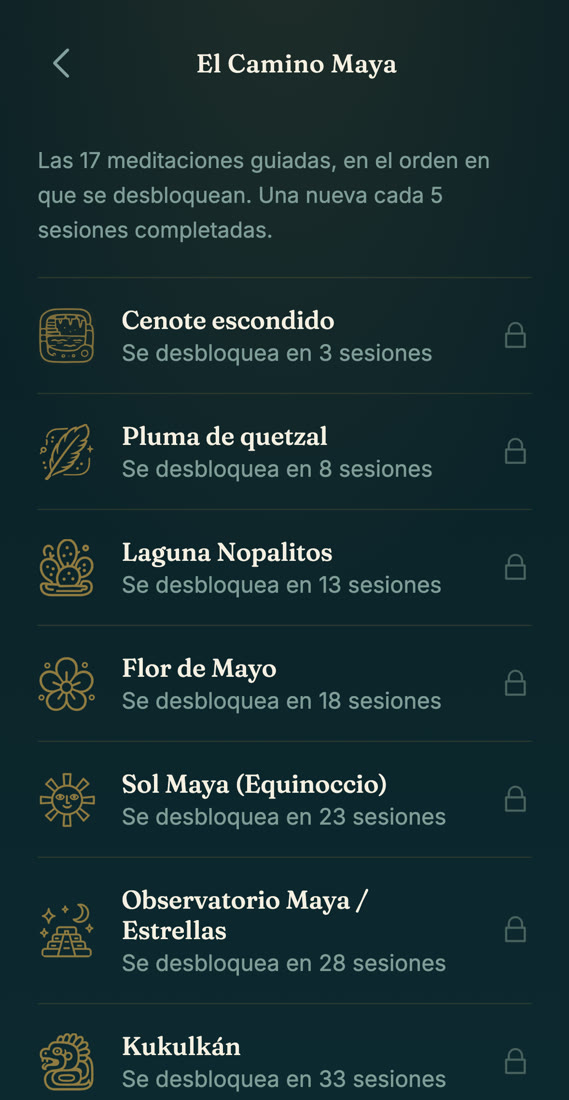
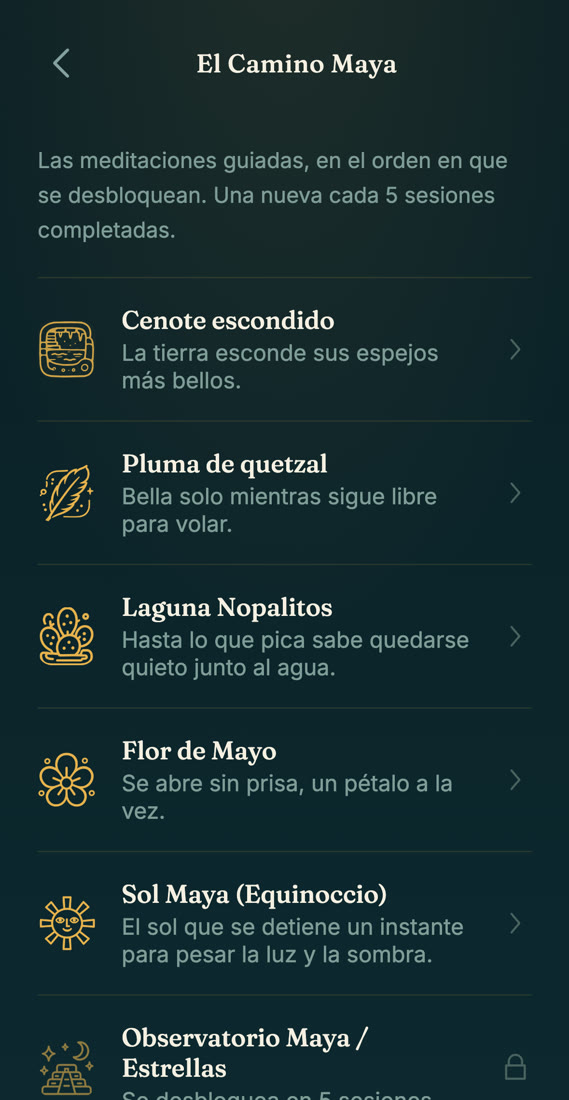
Colabora: schermata Meditar con le meditazioni sbloccate fino al Sole, senza il numero 17

diff --git a/colabora/index.html b/colabora/index.html
@@ -372,14 +372,13 @@ const FORM_LANG = { voice: true, music: true, beta: true };
 const T = {
   it:{eyebrow:"Cerchiamo voci e musica",h1:"Ogni respiro ha un suono. <em>Può essere il tuo.</em>",
     lede:"ÓOL è un rifugio in tasca, nato a Tulum: la selva, il mare, le storie del mondo maya e il respiro al centro.",
-    inLabel:"Dentro ÓOL",inTitle:"Non solo respirare.",
+    
     s1t:"Suoni veri",s1:"Registriamo dal vivo i suoni di Tulum: la pioggia, le onde, la selva.",
-    s2t:"Meditazioni nel mondo maya",s2:"Diciassette meditazioni fra luoghi veri e antichi miti: un cenote nascosto, una laguna, la ceiba sacra, un sacbé. Si aprono una alla volta, con la pratica.",
     extra:"E ogni giorno, una frase che ispira e un diario per custodire le tue parole.",
     s3t:"Imparare di nuovo a respirare",s3:"Nella fretta di ogni giorno, molti di noi hanno dimenticato come si respira bene: il respiro si fa corto e veloce, senza che ce ne accorgiamo. ÓOL ti guida con respirazioni diverse per momenti diversi: per ritrovare la calma, per dormire, per concentrarti o per quando arriva l'ansia.",
     vT:"Voci",vP:"Una voce calma per guidare le meditazioni, in italiano, spagnolo o inglese. Per il provino basta una stanza silenziosa.",vCta:"Candidati come voce",
     mT:"Musica",vTag:"Meditazione guidata · narrazione",mTag:"Sound healing · ambient · musica lenta",mP:"Se la tua musica nasce per dare calma, qui può accompagnare altre persone a respirare, riposare e dormire. Cerchiamo brani lenti, strumentali o con voce leggera. Ogni brano porta il tuo nome e i tuoi link.",mCta:"Proponi i tuoi brani",
-    g1:"La home",g1s:"Un tocco e inizi.",g2:"Respirare",g2s:"Una luce segue l'onda del tuo respiro.",gM:"Meditare",gMs:"Diciassette meditazioni fra luoghi veri e miti maya. Si aprono una alla volta, con la pratica.",g3:"A fine sessione",g3s:"Un animale e una frase da portare con te.",g4:"I sigilli",g4s:"Venti glifi di ispirazione maya che si sbloccano man mano che i respiri si sommano.",g5:"Il tuo cielo",g5s:"Una stella per ogni giorno di pratica.",
+    g1:"La home",g1s:"Un tocco e inizi.",g2:"Respirare",g2s:"Una luce segue l'onda del tuo respiro.",gM:"Meditare",gMs:"Meditazioni guidate fra luoghi e miti maya, con musica e suoni veri: per calmare la mente e dormire meglio.",g3:"A fine sessione",g3s:"Un animale e una frase da portare con te.",g4:"I sigilli",g4s:"Venti glifi di ispirazione maya che si sbloccano man mano che i respiri si sommano.",g5:"Il tuo cielo",g5s:"Una stella per ogni giorno di pratica.",
     whyLabel:"Perché partecipare",
     nDef:"<b>ÓOL</b>, in lingua maya, è ciò che resta quando il respiro torna al centro: l'animo, il cuore, l'energia.",
     tP:"Né voce né musica? Stiamo preparando la versione di prova: prova ÓOL prima che esca.",tCta:"Voglio provarla",prev:"Schermata precedente",next:"Schermata successiva",
@@ -390,14 +389,13 @@ const T = {
 alt:["Una donna, controluce al tramonto sul mare di Tulum, espira verso il cielo","Una donna con le cuffie parla al microfono","Mani che suonano un handpan nella luce calda"]},
   es:{eyebrow:"Buscamos voces y música",h1:"Cada respiración tiene un sonido. <em>Puede ser el tuyo.</em>",
     lede:"ÓOL es un refugio de bolsillo, nacido en Tulum: la selva, el mar, las historias del mundo maya y la respiración en el centro.",
-    inLabel:"Dentro de ÓOL",inTitle:"No solo respirar.",
+    
     s1t:"Sonidos reales",s1:"Grabamos en vivo los sonidos de Tulum: la lluvia, las olas, la selva.",
-    s2t:"Meditaciones en el mundo maya",s2:"Diecisiete meditaciones entre lugares reales y mitos antiguos: un cenote escondido, una laguna, la ceiba sagrada, un sacbé. Se abren una por una, con la práctica.",
     extra:"Y cada día, una frase que inspira y un diario para guardar tus propias palabras.",
     s3t:"Volver a aprender a respirar",s3:"Con la prisa de todos los días, muchos hemos olvidado cómo respirar bien: la respiración se vuelve corta y rápida sin que nos demos cuenta. ÓOL te guía con respiraciones distintas para distintos momentos: para recuperar la calma, para dormir, para concentrarte o para cuando llega la ansiedad.",
     vT:"Voces",vP:"Una voz tranquila para guiar las meditaciones, en italiano, español o inglés. Para la prueba basta un cuarto silencioso.",vCta:"Postúlate como voz",
     mT:"Música",vTag:"Meditación guiada · narración",mTag:"Sound healing · ambient · música lenta",mP:"Si tu música nace para dar calma, aquí puede acompañar a otras personas a respirar, descansar y dormir. Buscamos piezas lentas, instrumentales o con voz suave. Cada pieza lleva tu nombre y tus enlaces.",mCta:"Propón tu música",
-    g1:"Inicio",g1s:"Un toque y empiezas.",g2:"Respirar",g2s:"Una luz sigue la ola de tu respiración.",gM:"Meditar",gMs:"Diecisiete meditaciones entre lugares reales y mitos mayas. Se abren una por una, con la práctica.",g3:"Al terminar",g3s:"Un animal y una frase para llevarte.",g4:"Los sellos",g4s:"Veinte glifos de inspiración maya que se desbloquean conforme sumas respiraciones.",g5:"Tu cielo",g5s:"Una estrella por cada día de práctica.",
+    g1:"Inicio",g1s:"Un toque y empiezas.",g2:"Respirar",g2s:"Una luz sigue la ola de tu respiración.",gM:"Meditar",gMs:"Meditaciones guiadas entre lugares y mitos mayas, con música y sonidos reales: para calmar la mente y dormir mejor.",g3:"Al terminar",g3s:"Un animal y una frase para llevarte.",g4:"Los sellos",g4s:"Veinte glifos de inspiración maya que se desbloquean conforme sumas respiraciones.",g5:"Tu cielo",g5s:"Una estrella por cada día de práctica.",
     whyLabel:"Por qué participar",
     nDef:"<b>ÓOL</b>, en lengua maya, es lo que queda cuando la respiración vuelve al centro: el ánimo, el corazón, la energía.",
     tP:"¿Ni voz ni música? Estamos preparando la versión de prueba: prueba ÓOL antes de que salga.",tCta:"Quiero probarla",prev:"Pantalla anterior",next:"Pantalla siguiente",
@@ -408,14 +406,13 @@ alt:["Una donna, controluce al tramonto sul mare di Tulum, espira verso il cielo
 alt:["Una mujer, a contraluz al atardecer sobre el mar de Tulum, exhala hacia el cielo","Una mujer con audífonos habla frente al micrófono","Manos que tocan un handpan bajo una luz cálida"]},
   en:{eyebrow:"Looking for voices and music",h1:"Every breath has a sound. <em>It could be yours.</em>",
     lede:"ÓOL is a refuge in your pocket, born in Tulum: the jungle, the sea, stories from the Maya world, and breath at the center.",
-    inLabel:"Inside ÓOL",inTitle:"More than breathing.",
+    
     s1t:"Real sounds",s1:"We record the sounds of Tulum on location: the rain, the waves, the jungle.",
-    s2t:"Meditations in the Maya world",s2:"Seventeen meditations set in real places and ancient myths: a hidden cenote, a lagoon, the sacred ceiba tree, a sacbé. They open up one by one as you practice.",
     extra:"And every day, an inspiring line and a journal for your own words.",
     s3t:"Learning to breathe again",s3:"In the rush of everyday life, many of us have forgotten how to breathe well: our breathing turns fast and shallow without our noticing. ÓOL guides you through different ways of breathing for different moments: to find calm again, to sleep, to focus, or for when anxiety rises.",
     vT:"Voices",vP:"A calm voice to guide the meditations, in Italian, Spanish, or English. For the audition, a quiet room is enough.",vCta:"Apply as a voice",
     mT:"Music",vTag:"Guided meditation · narration",mTag:"Sound healing · ambient · slow music",mP:"If your music is made to bring calm, here it can keep others company as they breathe, rest, and fall asleep. We're looking for slow tracks, instrumental or with a soft voice. Every track carries your name and your links.",mCta:"Submit your music",
-    g1:"Home",g1s:"One tap and you begin.",g2:"Breathing",g2s:"A light follows the wave of your breath.",gM:"Meditating",gMs:"Seventeen meditations set in real places and Maya myths. They open up one by one as you practice.",g3:"After a session",g3s:"An animal and a line to take with you.",g4:"The seals",g4s:"Twenty Maya-inspired glyphs that unlock as your breaths add up.",g5:"Your sky",g5s:"One star for every day of practice.",
+    g1:"Home",g1s:"One tap and you begin.",g2:"Breathing",g2s:"A light follows the wave of your breath.",gM:"Meditating",gMs:"Guided meditations among Maya places and myths, with music and real sounds: to quiet the mind and sleep better.",g3:"After a session",g3s:"An animal and a line to take with you.",g4:"The seals",g4s:"Twenty Maya-inspired glyphs that unlock as your breaths add up.",g5:"Your sky",g5s:"One star for every day of practice.",
     whyLabel:"Why take part",
     nDef:"<b>ÓOL</b>, in the Maya language, is what remains when the breath returns to center: the spirit, the heart, the energy.",
     tP:"Not a voice or a musician? We're preparing the test version: try ÓOL before it's out.",tCta:"I want to try it",prev:"Previous screen",next:"Next screen",
